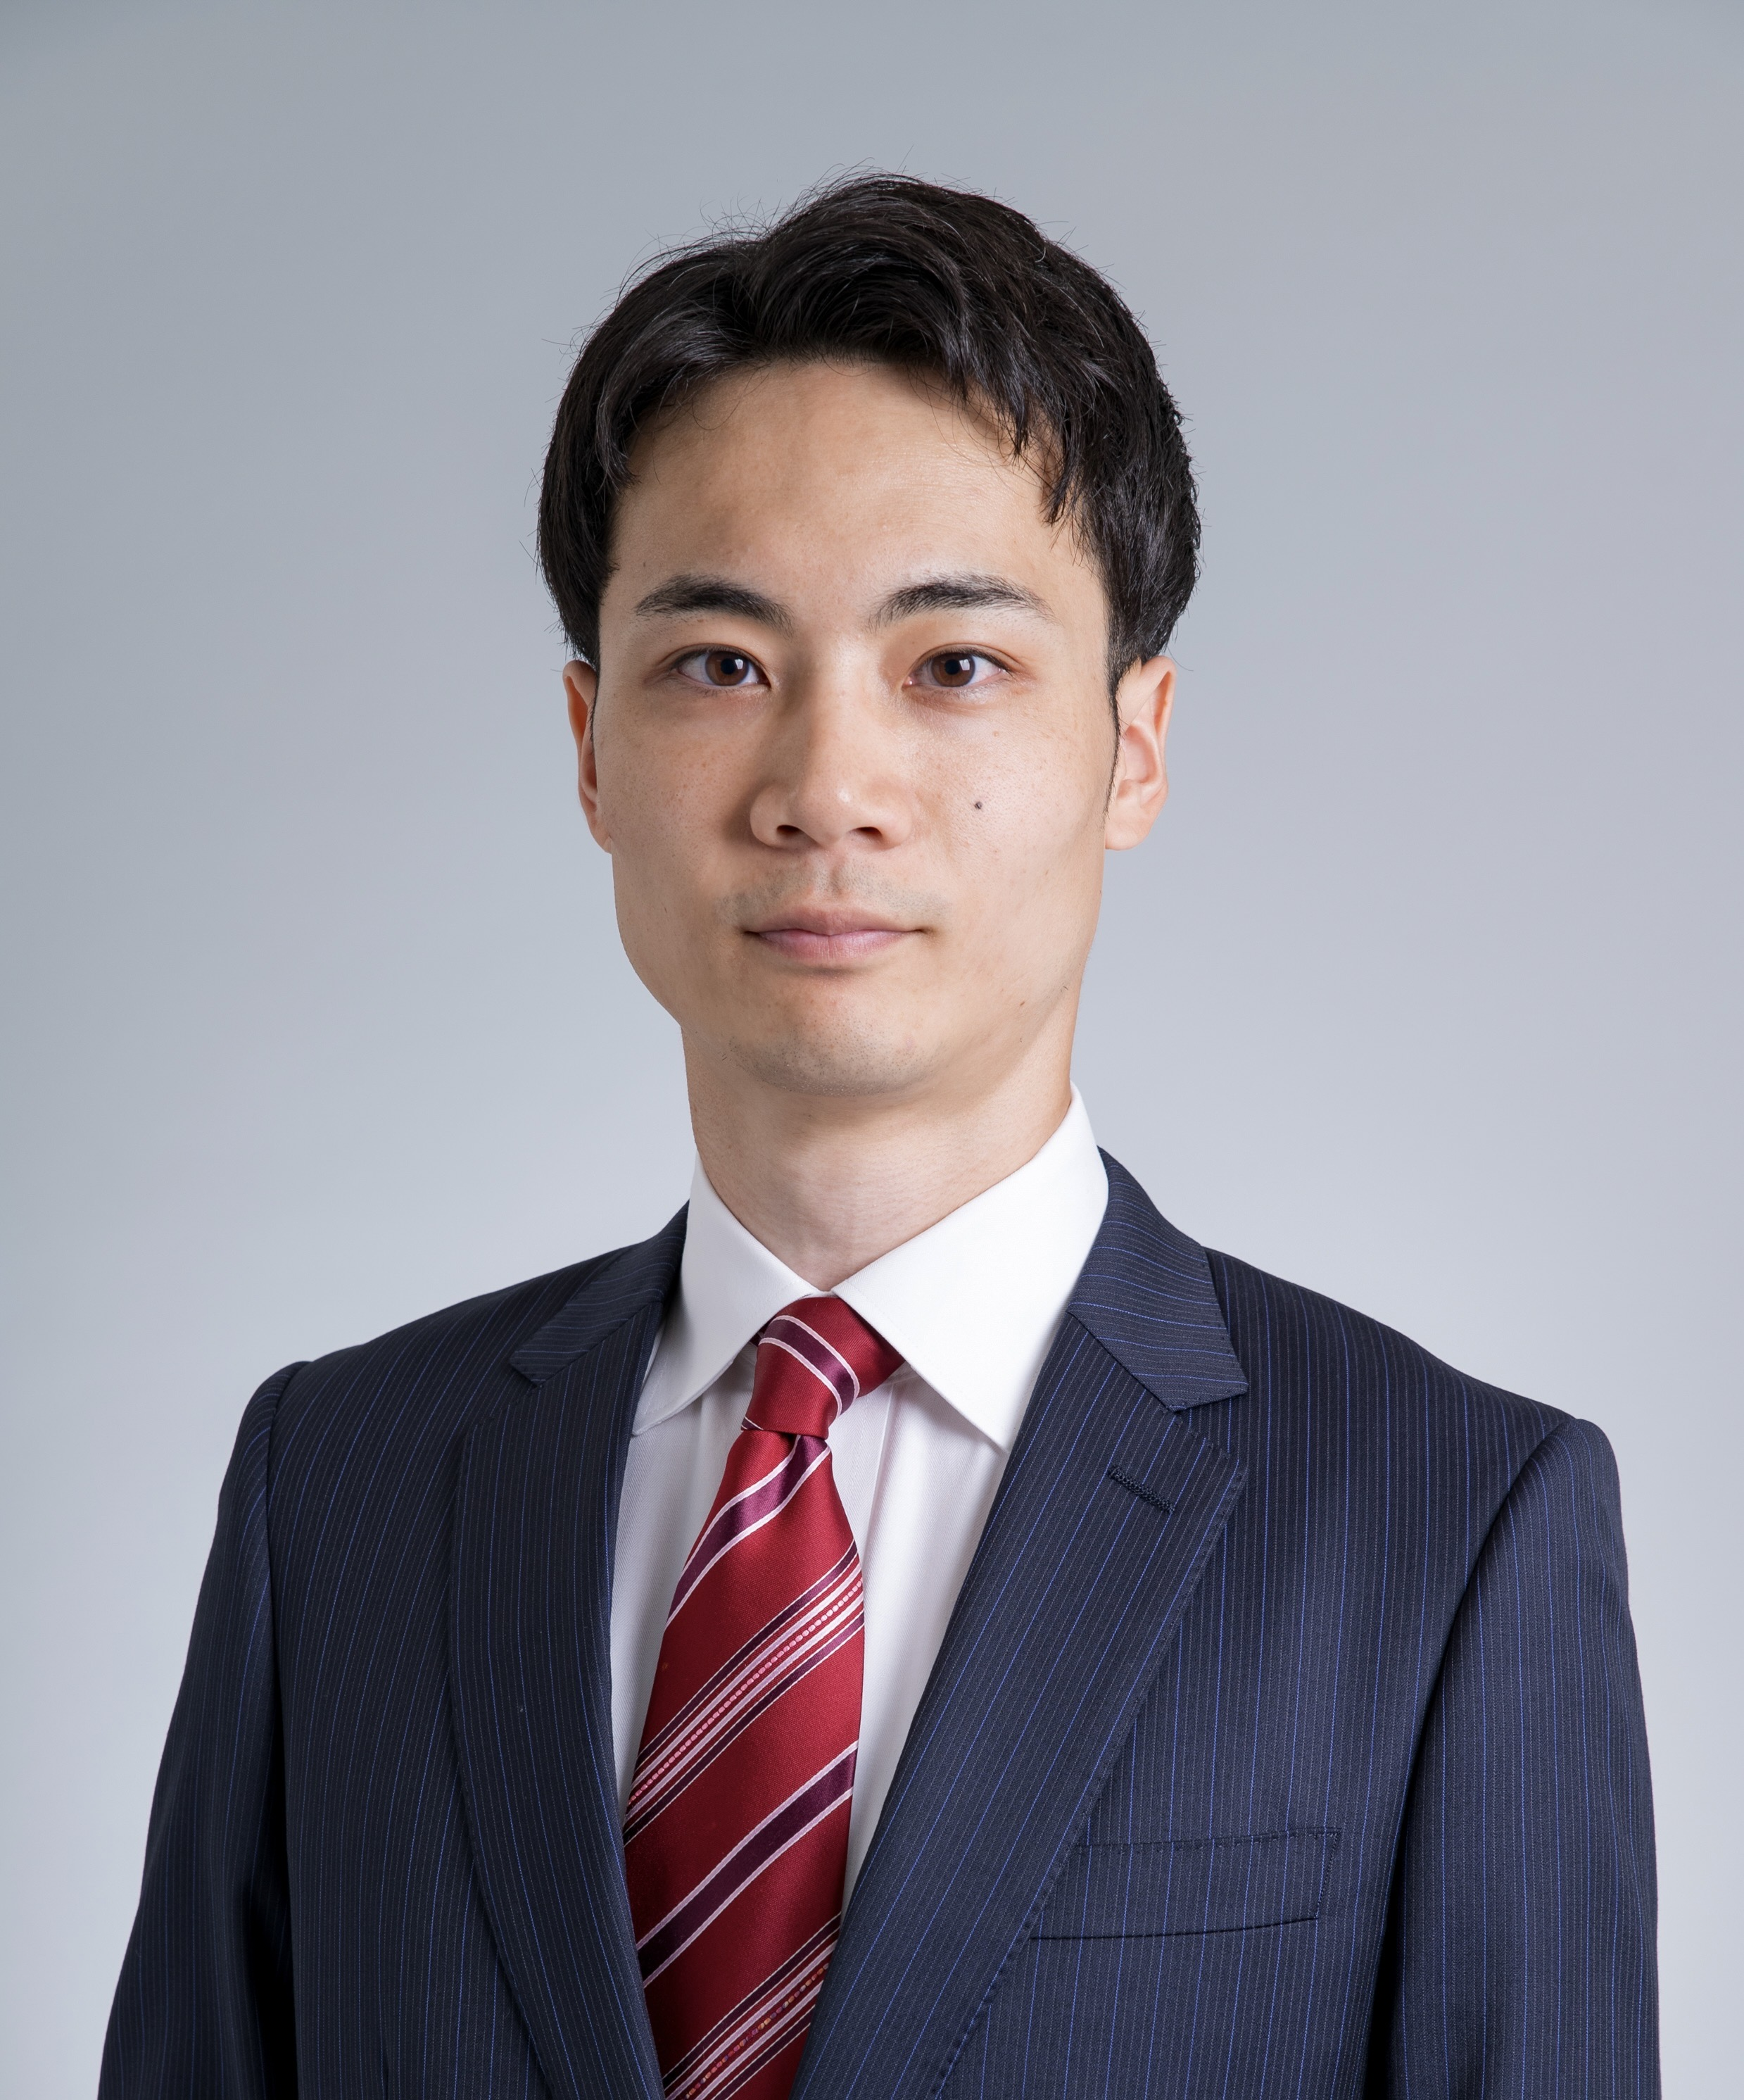
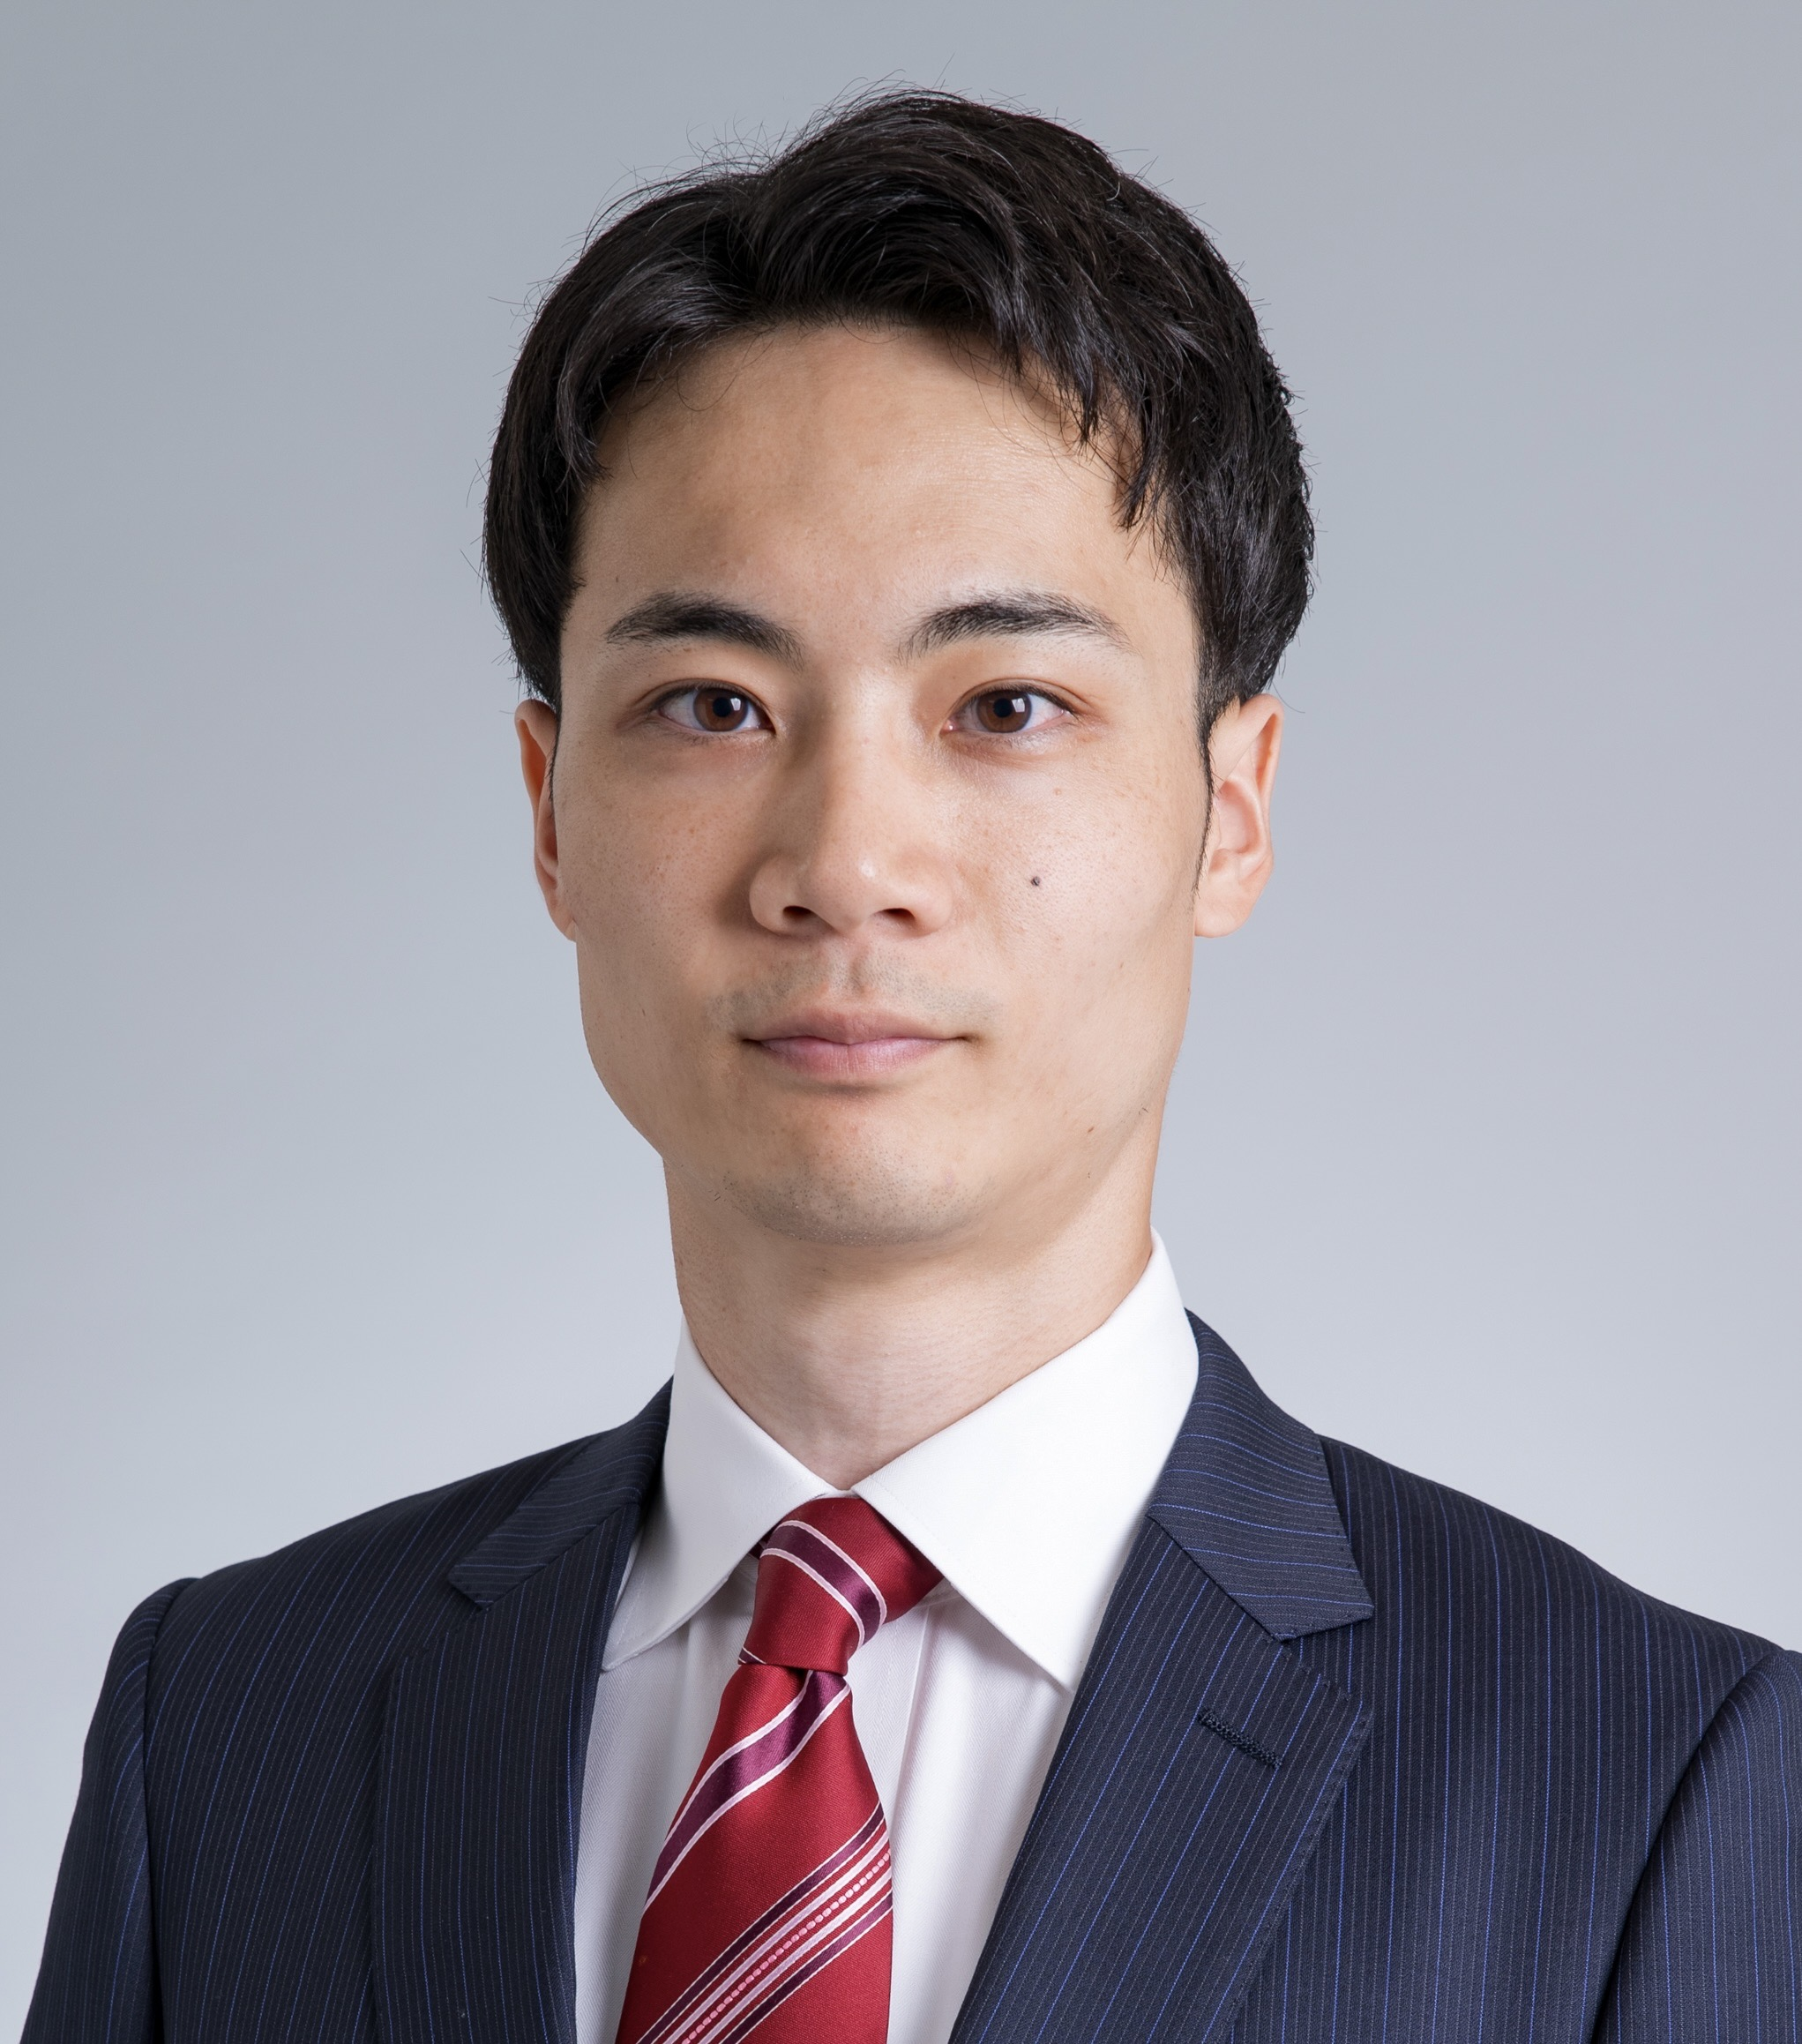
updated information

diff --git a/_pages/about.md b/_pages/about.md
@@ -28,7 +28,9 @@ latest_posts:
 
 
 I am currently an Assistant Professor at the [Institute of Economic Research](https://www.ier.hit-u.ac.jp/English/), [Hitotsubashi University](https://www.hit-u.ac.jp/eng/).
-
+ 
+<br>
 Broadly, my research focuses on econometric and statistical theory.
-
+ 
+<br>
 Prior to joining Hitotsubashi, I received my Ph.D. in Economics and Statistics from MIT. Before moving to the US, I earned my B.A. and M.A. in Economics from the University of Tokyo.

diff --git a/_pages/cv.md b/_pages/cv.md
@@ -6,7 +6,7 @@ nav: true
 nav_order: 3
 cv_pdf: # you can also use external links here
 cv_format: rendercv # options: rendercv, jsonresume
-description: 
+description: "<style>li, li::marker { list-style: none !important; list-style-type: none !important; } .table-cv td:first-child { display: flex !important; flex-direction: column !important; align-items: flex-start !important; text-align: left !important; gap: 4px !important; }</style>"
 toc:
   # sidebar: left
 ---